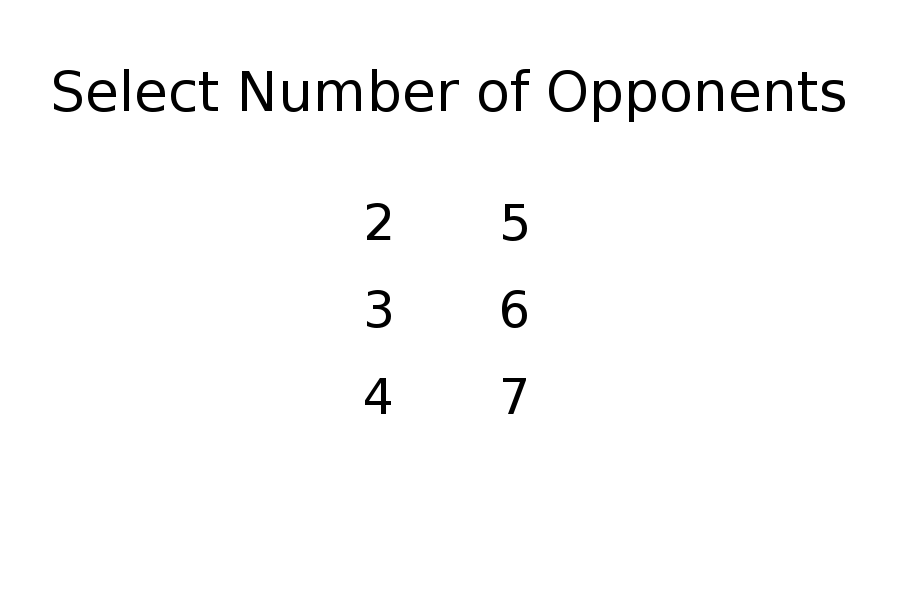
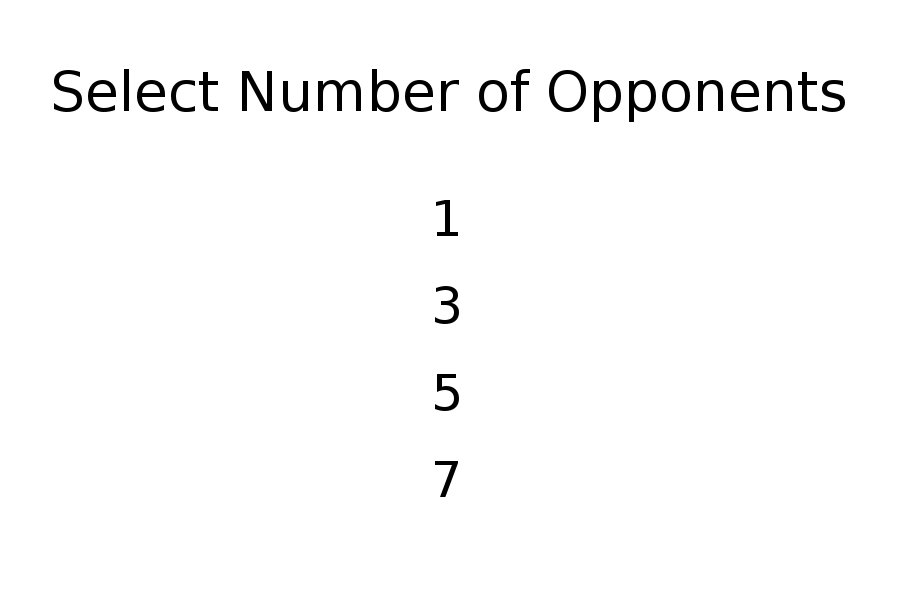
Opponent select 1-3-5-7

diff --git a/DoD/FactionSelectScreen.java b/DoD/FactionSelectScreen.java
@@ -21,28 +21,19 @@ public class FactionSelectScreen extends Screen
     }
     
     void checkClick(MouseInfo mouse){ //Only odd number of opponents
-        if (mouse.getX() >= 330 && mouse.getX() <= 450) {
-            /*if (mouse.getY() >= 190 && mouse.getY() <= 265) {
-                Greenfoot.setWorld(new Map(2));
-            }*/
-            if (mouse.getY() >= 265 && mouse.getY() <= 350) {
+        if (mouse.getX() >= 390 && mouse.getX() <= 510) {
+            if (mouse.getY() >= 170 && mouse.getY() <= 265) {
+                Greenfoot.setWorld(new Map(1));
+            }
+            else if (mouse.getY() >= 265 && mouse.getY() <= 350) {
                 Greenfoot.setWorld(new Map(3));
             }
-            /*else if (mouse.getY() >= 350 && mouse.getY() <= 435) {
-                Greenfoot.setWorld(new Map(4));
-            }*/
-        }
-        else if (mouse.getX() >= 450 && mouse.getX() <= 570) {
-            if (mouse.getY() >= 190 && mouse.getY() <= 265) {
+            else if (mouse.getY() >= 350 && mouse.getY() <= 435) {
                 Greenfoot.setWorld(new Map(5));
             }
-            /*else if (mouse.getY() >= 265 && mouse.getY() <= 350) {
-                Greenfoot.setWorld(new Map(6));
-            }*/
-            else if (mouse.getY() >= 350 && mouse.getY() <= 435) {
+            else if (mouse.getY() >= 435 && mouse.getY() <= 520) {
                 Greenfoot.setWorld(new Map(7));
             }
-        
         }
     }
 }

diff --git a/DoD/Faction.java b/DoD/Faction.java
@@ -43,28 +43,28 @@ public class Faction //extends Actor
         this(world);
         this.id = id;
         switch (id) {
-            case 0: bgColor = Color.RED;
+            case 1: bgColor = Color.RED;
                     fgColor = Color.WHITE;
                      break;
-            case 1: bgColor = Color.YELLOW;
+            case 2: bgColor = Color.YELLOW;
                     fgColor = Color.BLACK;
                     break;
-            case 2: bgColor = Color.GREEN;
+            case 3: bgColor = Color.GREEN;
                     fgColor = Color.BLACK;
                     break;
-            case 3: bgColor = Color.BLUE;
+            case 4: bgColor = Color.BLUE;
                     fgColor = Color.WHITE;
                     break;
-            case 4: bgColor = Color.CYAN;
+            case 5: bgColor = Color.CYAN;
                     fgColor = Color.BLACK;
                     break;
-            case 5: bgColor = Color.ORANGE;
+            case 6: bgColor = Color.ORANGE;
                     fgColor = Color.BLACK;
                     break;
-            case 6: bgColor = Color.DARK_GRAY;
+            case 7: bgColor = Color.DARK_GRAY;
                     fgColor = Color.WHITE;
                     break;
-            case 7: bgColor = Color.GREEN;
+            case 8: bgColor = Color.MAGENTA;
                     fgColor = Color.BLACK;
                     break;
         }   

diff --git a/DoD/Map.java b/DoD/Map.java
@@ -219,8 +219,8 @@ public class Map extends DoDWorld
     }
     
     private void initializeFactionMapping(int numFactions) {
-        for (int i = 1; i <= numFactions; i++) {
-            Faction newFaction = new Faction(this, i - 1);
+        for (int i = 1; i <= 8; i++) {
+            Faction newFaction = new Faction(this, i);
             //addObject(newFaction, 10, 10);    // This was so I could use the faction's act method for test output
             newFaction.setFlag(new GreenfootImage("faction" + i + ".png"));
             factions.put(i, newFaction);
